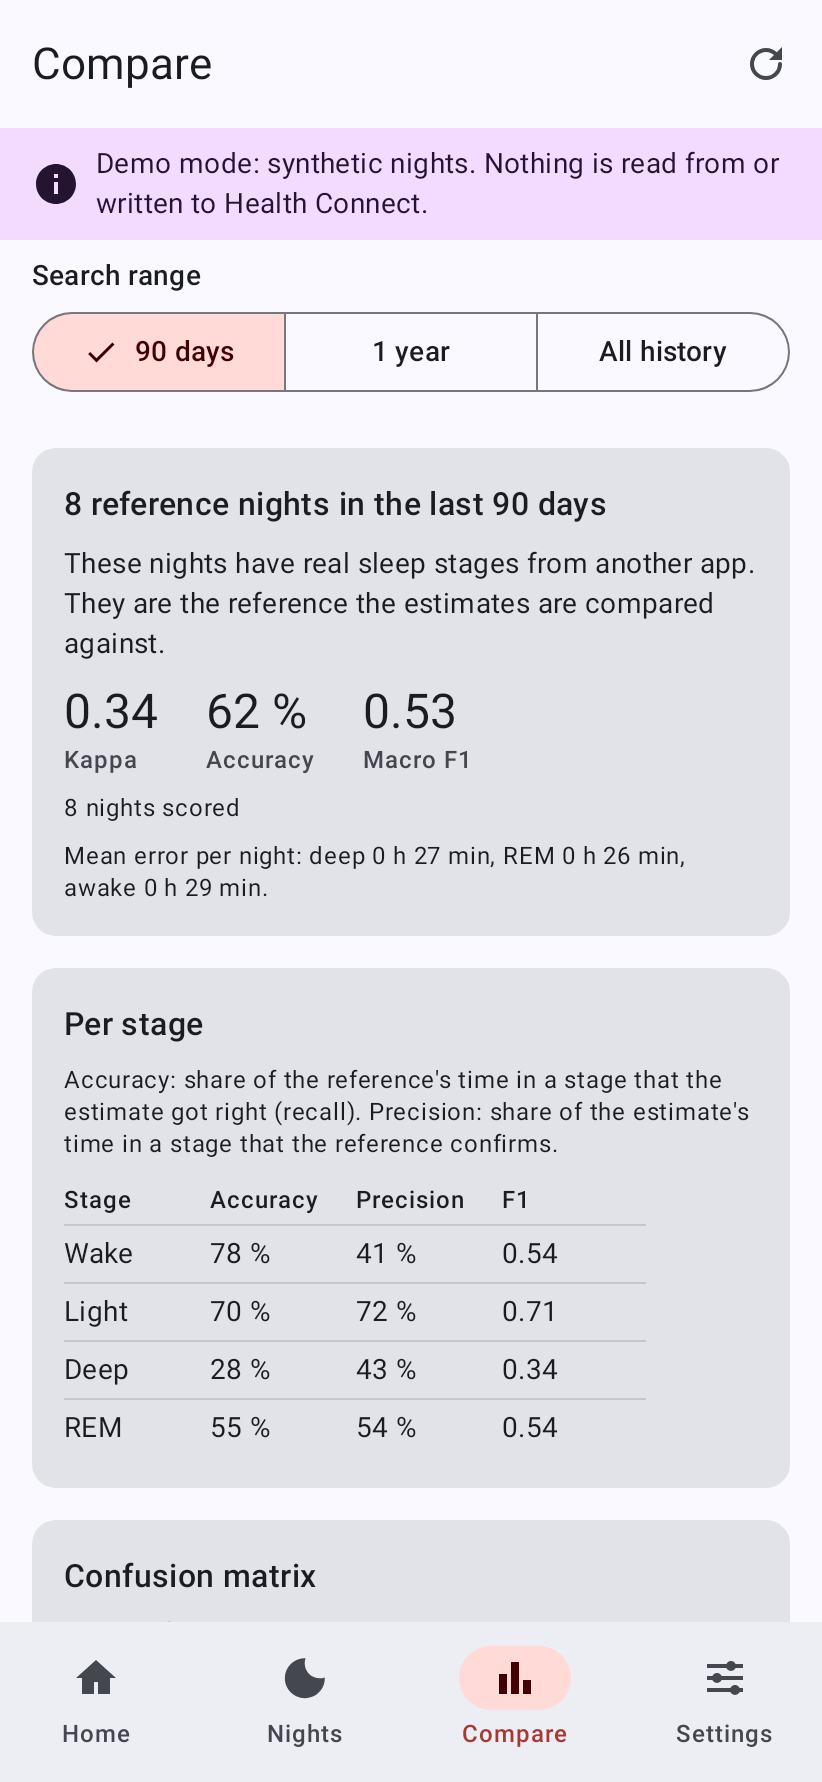
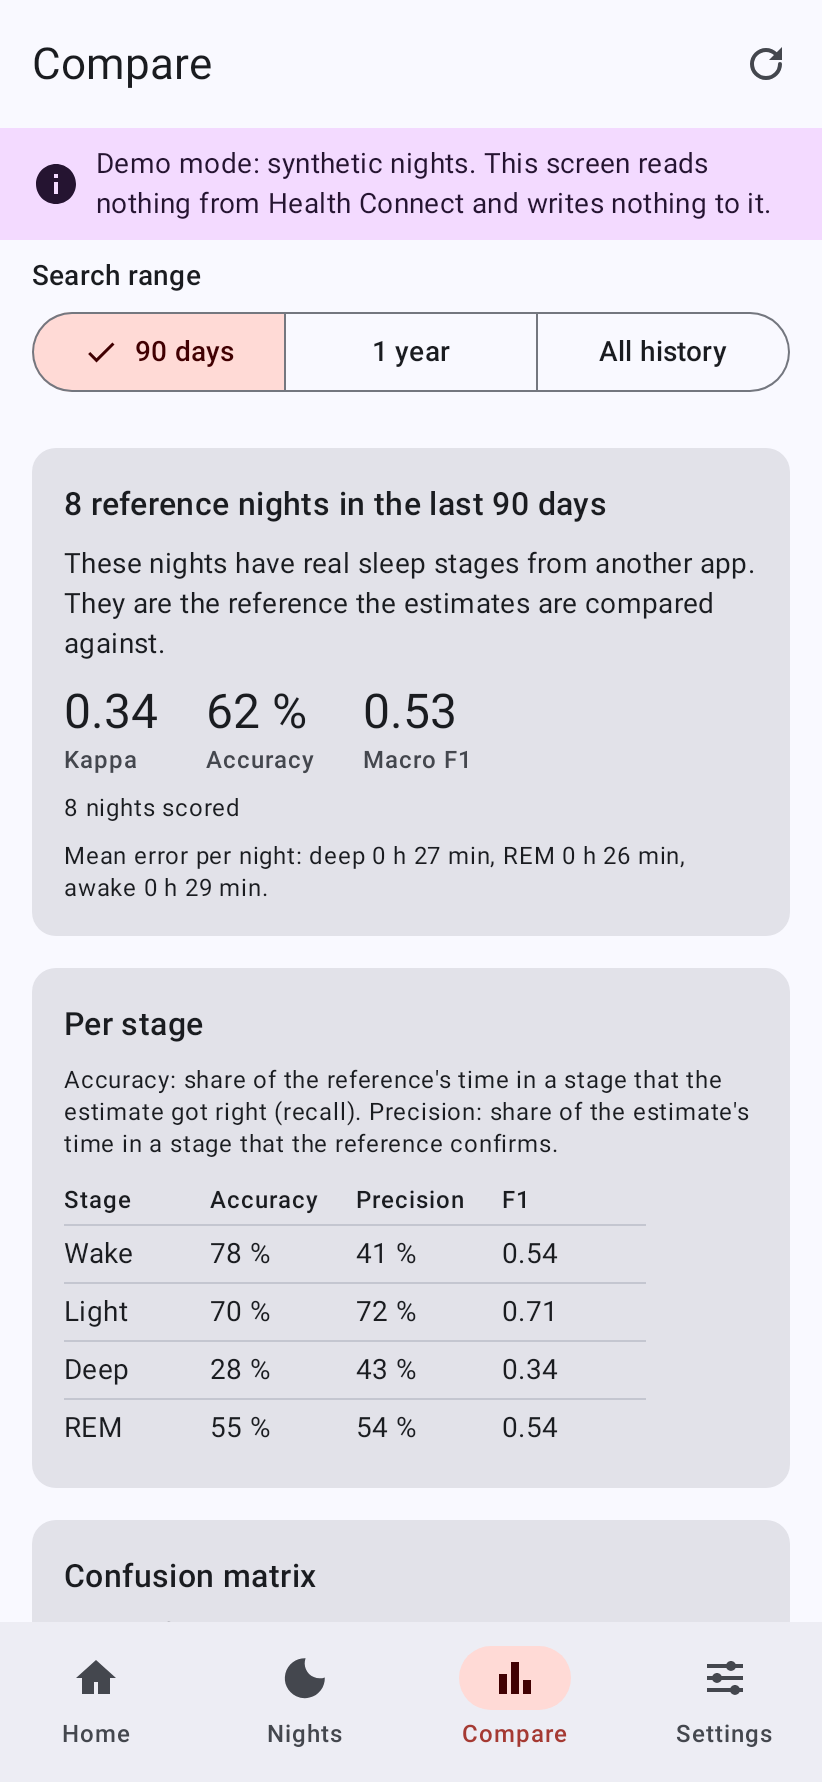
fix(app): address review findings
- Compare: a source replaced while the tab is hidden (demo mode is
  switched in Settings) no longer searches Health Connect and re-scores
  the reference nights at once. The tab is reset (a running search is
  cancelled too) and searched when a screen shows it again:
  CompareRoute reports start / stop (LifecycleStartEffect, like the
  night detail's onPaneStarted), and showing the tab again without a
  switch searches nothing. The first source is still searched at once.
- Nights: a night selected in the wide pane before a source switch is
  no longer opened as its own destination when the window becomes
  compact ("Night not found"). The selection remembers which data it
  was made in (saved state); takeNightToOpen() returns it only for the
  current source and, when the list shown is that source's, only if the
  list has it. The source is followed even while the tab is hidden.
- Demo mode texts: the Settings hint and the banner (en + ru) no longer
  say that nothing is read from or written to Health Connect. Only the
  Nights list, night detail and Compare are switched; background
  estimation, Home and Sources keep using the real data.
  docs/SCREENSHOTS.md and CHANGELOG say the same; the three README
  screenshots with the banner are rendered again (only the banner
  changed).

Tests: CompareViewModelTest (no search while hidden, one search when
shown, none when shown again without a switch), NightsViewModelTest
[…]

Changed region(s): [[0.5779, 0.0617, 0.9428, 0.1235], [0.1217, 0.0926, 0.5474, 0.1235]]

diff --git a/app/src/test/kotlin/io/github/alien2003/pulsestages/ui/compare/CompareViewModelTest.kt b/app/src/test/kotlin/io/github/alien2003/pulsestages/ui/compare/CompareViewModelTest.kt
@@ -17,6 +17,7 @@ import io.github.alien2003.pulsestages.data.hc.testutil.addNight
 import io.github.alien2003.pulsestages.data.hc.testutil.nightStart
 import io.github.alien2003.pulsestages.data.hc.usecase.CalibrationOutcome
 import io.github.alien2003.pulsestages.data.hc.usecase.ReferenceSearch
+import io.github.alien2003.pulsestages.data.hc.usecase.SpecialAccess
 import io.github.alien2003.pulsestages.data.hc.usecase.UseCaseResult
 import io.github.alien2003.pulsestages.data.local.db.PersonalModelKind
 import io.github.alien2003.pulsestages.source.HealthConnectReferenceSource
@@ -28,7 +29,10 @@ import io.github.alien2003.pulsestages.testutil.clear
 import io.github.alien2003.pulsestages.testutil.harnessTest
 import io.github.alien2003.pulsestages.ui.common.UiText
 import io.github.alien2003.pulsestages.ui.common.formatDecimal
+import kotlinx.coroutines.flow.Flow
 import kotlinx.coroutines.flow.first
+import kotlinx.coroutines.flow.flowOf
+import kotlinx.coroutines.test.advanceUntilIdle
 import org.junit.jupiter.api.Assertions.assertEquals
 import org.junit.jupiter.api.Assertions.assertFalse
 import org.junit.jupiter.api.Assertions.assertNotNull
@@ -136,6 +140,7 @@ class CompareViewModelTest {
                 }
             val sources = TestScreenSources(references = real)
             val vm = CompareViewModel(sources, FakeAppInfoResolver(), h.clock, h.logger)
+            vm.onScreenStarted()
             val first = vm.awaitState { it.phase == ComparePhase.READY && it.metrics != null }
             assertEquals(3, first.referenceCount)
             assertFalse(first.synthetic)
@@ -150,6 +155,60 @@ class CompareViewModelTest {
             val back = vm.awaitState { !it.synthetic && it.metrics != null }
             assertEquals(3, back.referenceCount)
             assertEquals(3, back.nights.size)
+            clear(vm)
+        }
+
+    @Test
+    fun `a source replaced while the tab is hidden is searched only when the tab is shown again`() =
+        harnessTest(main, dir) { h ->
+            h.addReferenceNights(3)
+            val real = HealthConnectReferenceSource(h.referenceComparison, h.personalization, h.homeStatus, h.settings)
+            val reads = mutableListOf<String>()
+            // Answers at once (no Health Connect, no database). Its settings are read only after the ViewModel took it
+            // over, so once they are shown, a search started with the switch would already have asked it.
+            val demo =
+                object : ReferenceSource by real {
+                    override val synthetic: Boolean = true
+
+                    override fun personalizationEnabled(): Flow<Boolean> = flowOf(false)
+
+                    override suspend fun historyAccess(): SpecialAccess {
+                        reads += "historyAccess"
+                        return SpecialAccess.GRANTED
+                    }
+
+                    override suspend fun findReferenceNights(
+                        fromMs: Long,
+                        toMs: Long,
+                    ): UseCaseResult<ReferenceSearch> {
+                        reads += "findReferenceNights"
+                        return UseCaseResult.Success(ReferenceSearch(emptyList(), emptyList(), emptyList(), fromMs, toMs))
+                    }
+                }
+            val sources = TestScreenSources(references = real)
+            val vm = CompareViewModel(sources, FakeAppInfoResolver(), h.clock, h.logger)
+            vm.onScreenStarted()
+            assertEquals(3, vm.awaitState { it.phase == ComparePhase.READY && it.metrics != null }.referenceCount)
+
+            // Settings shows the switch: the tab is hidden while the source is replaced.
+            vm.onScreenStopped()
+            sources.replace(demo)
+            val waiting = vm.awaitState { it.synthetic && !it.personalizationEnabled }
+            advanceUntilIdle()
+            assertEquals(emptyList<String>(), reads, "a hidden tab does not search the new source")
+            assertEquals(ComparePhase.SEARCHING, vm.state.value.phase)
+            assertNull(waiting.metrics, "nothing of the previous source is shown")
+            assertEquals(0, waiting.referenceCount)
+
+            vm.onScreenStarted()
+            assertTrue(vm.awaitState { it.synthetic && it.phase == ComparePhase.READY }.empty)
+            assertEquals(listOf("historyAccess", "findReferenceNights"), reads)
+
+            // Hidden and shown again without a switch: no new search.
+            vm.onScreenStopped()
+            vm.onScreenStarted()
+            advanceUntilIdle()
+            assertEquals(listOf("historyAccess", "findReferenceNights"), reads)
             clear(vm)
         }
 

diff --git a/app/src/main/kotlin/io/github/alien2003/pulsestages/ui/nights/NightsViewModel.kt b/app/src/main/kotlin/io/github/alien2003/pulsestages/ui/nights/NightsViewModel.kt
@@ -22,6 +22,7 @@ import kotlinx.coroutines.flow.map
 import kotlinx.coroutines.flow.onEach
 import kotlinx.coroutines.flow.onStart
 import kotlinx.coroutines.flow.stateIn
+import kotlinx.coroutines.launch
 import javax.inject.Inject
 
 /**
@@ -86,7 +87,9 @@ sealed interface NightsUiState {
  * The nights come from the current source of [ScreenSources]: when it is replaced (debug builds: demo mode switched),
  * the list shows the loading state until the new source's nights are read (when the tab only resumes with the same
  * data, it keeps showing its nights meanwhile). A selected night that the new list does not have is not shown: a wide
- * window then shows the newest night, and switching back selects it again.
+ * window then shows the newest night, and switching back selects it again. Nor is it opened when the window becomes
+ * compact ([takeNightToOpen]): the selection remembers the data it was made in, so this holds even when the source
+ * was replaced while the tab was hidden.
  *
  * The selection follows the window size: in a wide window the selected night is shown in the right pane; when the
  * window becomes compact while it is shown there, it is opened as its own destination ([takeNightToOpen]); when the
@@ -104,6 +107,9 @@ class NightsViewModel
         /** `synthetic` of the list shown last, or null before one was shown. */
         private var shownSynthetic: Boolean? = null
 
+        /** `synthetic` of the current source (followed even while the list is not shown), or null before it is known. */
+        private var currentSynthetic: Boolean? = null
+
         /** The current UI state. */
         val state: StateFlow<NightsUiState> =
             sources.nights
@@ -116,6 +122,11 @@ class NightsViewModel
         /** The night the user selected last, or null (a wide window then shows the newest night). */
         val selectedId: StateFlow<String?> = savedState.getStateFlow(KEY_SELECTED, null)
 
+        init {
+            // Only which source is current: reads neither the ledger nor Health Connect.
+            viewModelScope.launch { sources.nights.collect { currentSynthetic = it.synthetic } }
+        }
+
         /**
          * The user selected [clientRecordId]: in the right pane of a wide window ([inPane] true; it is opened as its
          * own destination when the window becomes compact) or as the detail destination of a compact window.
@@ -126,6 +137,7 @@ class NightsViewModel
         ) {
             savedState[KEY_SELECTED] = clientRecordId
             savedState[KEY_OPEN_WHEN_COMPACT] = inPane
+            savedState[KEY_SELECTED_SYNTHETIC] = currentSynthetic
         }
 
         /** The detail destination of [clientRecordId] became wide: the list shows it in its right pane. */
@@ -135,17 +147,32 @@ class NightsViewModel
 
         /**
          * The window became compact: the night that was shown in the right pane, to be opened as its own destination
-         * (at most once), or null when the user was not looking at a selected night.
+         * (at most once), or null when the user was not looking at a selected night, or when that night is not in the
+         * current data (selected before the source was replaced, or missing from the current list).
          */
         fun takeNightToOpen(): String? {
             val open = savedState.get<Boolean>(KEY_OPEN_WHEN_COMPACT) == true
             savedState[KEY_OPEN_WHEN_COMPACT] = false
-            return selectedId.value.takeIf { open }
+            val id = selectedId.value?.takeIf { open } ?: return null
+            return id.takeIf { inCurrentData(it) }
+        }
+
+        /**
+         * Whether the selected night [id] belongs to the current data: it was selected in the current source, and the
+         * list shown (when it is that source's) has it. What is not known yet does not count against it.
+         */
+        private fun inCurrentData(id: String): Boolean {
+            val current = currentSynthetic ?: return true
+            val selectedIn = savedState.get<Boolean>(KEY_SELECTED_SYNTHETIC)
+            val shown = state.value as? NightsUiState.Loaded
+            return (selectedIn == null || selectedIn == current) &&
+                (shown == null || shown.synthetic != current || shown.nights.any { it.clientRecordId == id })
         }
 
         private companion object {
             const val KEY_SELECTED = "nights.selected"
             const val KEY_OPEN_WHEN_COMPACT = "nights.open_when_compact"
+            const val KEY_SELECTED_SYNTHETIC = "nights.selected_synthetic"
         }
     }
 

diff --git a/app/src/main/kotlin/io/github/alien2003/pulsestages/ui/compare/CompareViewModel.kt b/app/src/main/kotlin/io/github/alien2003/pulsestages/ui/compare/CompareViewModel.kt
@@ -297,7 +297,9 @@ data class CompareUiState(
  * calibrates or resets the personal model.
  *
  * The reference nights come from the current source of [ScreenSources]: when it is replaced (debug builds: demo mode
- * switched), a running action is cancelled and the tab starts over with the new source.
+ * switched), a running action is cancelled and the tab starts over with the new source. While no screen shows the tab
+ * ([onScreenStarted] / [onScreenStopped]; the switch is in Settings, so it is hidden then), the new search waits until
+ * the tab is shown again, so a hidden tab does not read Health Connect or score the reference nights.
  */
 @HiltViewModel
 class CompareViewModel
@@ -317,6 +319,8 @@ class CompareViewModel
         private var actionJob: Job? = null
         private var requestedRange = CompareRange.RECENT
         private val labels = mutableMapOf<String, String?>()
+        private var visibleScreens = 0
+        private var refreshDeferred = false
 
         /** The current UI state. */
         val state: StateFlow<CompareUiState> = mutableState.asStateFlow()
@@ -343,18 +347,33 @@ class CompareViewModel
             }
         }
 
-        /** [next] is the source now: the tab starts over with it (queued messages and the chosen range are kept). */
+        /**
+         * [next] is the source now: the tab starts over with it (queued messages and the chosen range are kept). The
+         * first source is searched at once (the tab is being opened); a replaced one only when a screen shows the tab.
+         */
         private fun onSource(next: ReferenceSource) {
             val replaced = source != null
             source = next
             if (replaced) {
                 actionJob?.cancel()
+                loadJob?.cancel()
                 references = emptyList()
                 mutableState.update { CompareUiState(range = it.range, synthetic = next.synthetic, messages = it.messages) }
             } else {
                 mutableState.update { it.copy(synthetic = next.synthetic) }
             }
-            refresh()
+            if (!replaced || visibleScreens > 0) refresh() else refreshDeferred = true
+        }
+
+        /** A screen showing the tab became visible; a search that waited for it (replaced source) runs now. */
+        fun onScreenStarted() {
+            visibleScreens++
+            if (refreshDeferred) refresh()
+        }
+
+        /** A screen showing the tab is no longer visible (stopped, or left the composition). */
+        fun onScreenStopped() {
+            visibleScreens = (visibleScreens - 1).coerceAtLeast(0)
         }
 
         /** Searches [range] instead (ignored while busy; a longer range needs READ_HEALTH_DATA_HISTORY). */
@@ -368,6 +387,7 @@ class CompareViewModel
         /** Searches Health Connect again and scores the reference nights. */
         fun refresh() {
             val source = source ?: return
+            refreshDeferred = false
             loadJob?.cancel()
             loadJob =
                 viewModelScope.launch {

diff --git a/app/src/test/kotlin/io/github/alien2003/pulsestages/ui/nights/NightsViewModelTest.kt b/app/src/test/kotlin/io/github/alien2003/pulsestages/ui/nights/NightsViewModelTest.kt
@@ -18,6 +18,7 @@ import kotlinx.coroutines.flow.Flow
 import kotlinx.coroutines.flow.first
 import kotlinx.coroutines.flow.flow
 import kotlinx.coroutines.flow.flowOf
+import kotlinx.coroutines.flow.map
 import org.junit.jupiter.api.Assertions.assertEquals
 import org.junit.jupiter.api.Assertions.assertFalse
 import org.junit.jupiter.api.Assertions.assertTrue
@@ -162,6 +163,46 @@ class NightsViewModelTest {
             val back = vm.awaitLoaded { !it.synthetic }
             assertEquals(listOf(nightStart(1)), back.nights.map { it.summary.sessionStartMs })
             assertEquals("ps:selected", vm.selectedId.value, "the selection is kept for the data it belongs to")
+            clear(vm)
+        }
+
+    @Test
+    fun `a night selected in the pane before a source switch is not opened when the window becomes compact`() =
+        harnessTest(main, dir) { h ->
+            h.repository.addNight(OHEALTH, nightStart(1))
+            h.sync.run(inBackground = false)
+            val real = source(h)
+            val demo =
+                object : NightsSource by real {
+                    override val synthetic: Boolean = true
+
+                    override fun nights(): Flow<List<NightSummary>> =
+                        real.nights().map { nights -> nights.map { it.copy(clientRecordId = "demo:" + it.clientRecordId) } }
+                }
+            val sources = TestScreenSources(demo)
+            val vm = NightsViewModel(sources, h.logger, SavedStateHandle())
+            val demoList = vm.awaitLoaded { it.synthetic }
+            val demoNight = demoList.nights.single().clientRecordId
+            vm.select(demoNight, inPane = true)
+
+            // Demo mode off in Settings, back to the Nights list (the newest real night in the pane), then folded.
+            sources.replace(real)
+            val realList = vm.awaitLoaded { !it.synthetic }
+            val realNight = realList.nights.single().clientRecordId
+            assertEquals(null, vm.takeNightToOpen(), "the demo night is not in the real data")
+
+            // Switched while the tab was hidden (the list still shows the old data): not opened either.
+            sources.replace(demo)
+            vm.select(demoNight, inPane = true)
+            sources.replace(real)
+            assertEquals(null, vm.takeNightToOpen())
+
+            // A night of the current data is opened; one missing from the current list is not.
+            vm.awaitLoaded { !it.synthetic }
+            vm.select(realNight, inPane = true)
+            assertEquals(realNight, vm.takeNightToOpen())
+            vm.select("ps:deleted", inPane = true)
+            assertEquals(null, vm.takeNightToOpen())
             clear(vm)
         }
 

diff --git a/app/src/main/kotlin/io/github/alien2003/pulsestages/ui/compare/CompareScreen.kt b/app/src/main/kotlin/io/github/alien2003/pulsestages/ui/compare/CompareScreen.kt
@@ -48,6 +48,7 @@ import androidx.compose.ui.tooling.preview.Preview
 import androidx.compose.ui.unit.Dp
 import androidx.compose.ui.unit.dp
 import androidx.hilt.lifecycle.viewmodel.compose.hiltViewModel
+import androidx.lifecycle.compose.LifecycleStartEffect
 import androidx.lifecycle.compose.collectAsStateWithLifecycle
 import io.github.alien2003.pulsestages.R
 import io.github.alien2003.pulsestages.algo.model.SleepStage
@@ -99,6 +100,10 @@ private const val STAGE_TABLE_COLUMNS = 4
 @Composable
 fun CompareRoute(viewModel: CompareViewModel = hiltViewModel()) {
     val state by viewModel.state.collectAsStateWithLifecycle()
+    LifecycleStartEffect(viewModel) {
+        viewModel.onScreenStarted()
+        onStopOrDispose { viewModel.onScreenStopped() }
+    }
     CompareScreen(
         state = state,
         actions =

diff --git a/app/src/testDebug/kotlin/io/github/alien2003/pulsestages/demo/DemoScreenSourcesTest.kt b/app/src/testDebug/kotlin/io/github/alien2003/pulsestages/demo/DemoScreenSourcesTest.kt
@@ -96,6 +96,7 @@ class DemoScreenSourcesTest {
             val compare = CompareViewModel(sources.screens, FakeAppInfoResolver(), h.clock, h.logger)
             detail.show(real.clientRecordId)
             detail.onPaneStarted()
+            compare.onScreenStarted()
 
             val realList = nights.awaitLoaded { !it.synthetic }
             assertEquals(listOf(real.clientRecordId), realList.nights.map { it.clientRecordId })

diff --git a/docs/SCREENSHOTS.md b/docs/SCREENSHOTS.md
@@ -23,16 +23,18 @@ of the minified release APK, and `MergedManifestTest` checks that every build ha
 
 - Compare shows 8 synthetic reference nights whose "real" stages are the generator's true hypnograms; Calibrate runs
   core-algo's `PersonalCalibrator` and keeps the personal model **in memory only**.
-- **Nothing is read from or written to Health Connect**, and nothing is stored in the app's database: Delete my session,
-  Recompute and Calibrate only change the in-memory demo data. Home, Settings, Sources and Log keep showing the real
-  state.
+- **These three screens read nothing from Health Connect and write nothing to it**, and store nothing in the app's
+  database: Delete my session, Recompute and Calibrate only change the in-memory demo data.
+- **The rest of the app is not switched.** Background estimation (the hourly and daily runs) and the Home actions
+  (Estimate new, Backfill, Recompute all, Delete my sessions) keep reading Health Connect and writing your real nights
+  to it while demo mode is on; Home, Settings, Sources and Log keep showing the real state.
 
 ## Switching it on and off
 
 In a debug build, open **Settings** and scroll to the **Debug build** card near the end, just above "Versions and
-licences". Turn on **Demo mode** ("Synthetic nights instead of real ones in the Nights and Compare tabs. Nothing is read
-from or written to Health Connect."); turn it off to see the real data again. The app keeps a single launcher icon:
-there is no separate demo entry, and no adb command for it.
+licences". Turn on **Demo mode** ("The Nights and Compare tabs show synthetic nights and read nothing from Health
+Connect. Background estimation, Home and Sources keep working with your real data."); turn it off to see the real data
+again. The app keeps a single launcher icon: there is no separate demo entry, and no adb command for it.
 
 The switch is a per-device debug convenience, not a setting: it is kept in its own private preferences file
 (`pulsestages_demo_mode`), so it survives a restart until it is switched off again, and it is not part of the settings,

diff --git a/CHANGELOG.md b/CHANGELOG.md
@@ -11,10 +11,10 @@ workflow derives versionName and versionCode from the tag (see README, "GitHub: 
 ### Changed
 
 - **Demo mode** (debug builds only) is a switch in Settings → "Debug build" instead of a second launcher icon
-  ("PulseStages demo"). The Nights list, the night detail and Compare follow it at once, without a restart; every
-  build has a single launcher icon. The switch is a per-device debug convenience in its own preferences file, not a
-  setting (not exported, not part of the params hash). `ReleaseApkTest` checks that the minified release APK has no
-  demo class, resource or text.
+  ("PulseStages demo"). The Nights list, the night detail and Compare follow it at once, without a restart
+  (background estimation and the Home actions keep working with the real data); every build has a single launcher
+  icon. The switch is a per-device debug convenience in its own preferences file, not a setting (not exported, not
+  part of the params hash). `ReleaseApkTest` checks that the minified release APK has no demo class, resource or text.
 
 ### Fixed
 
